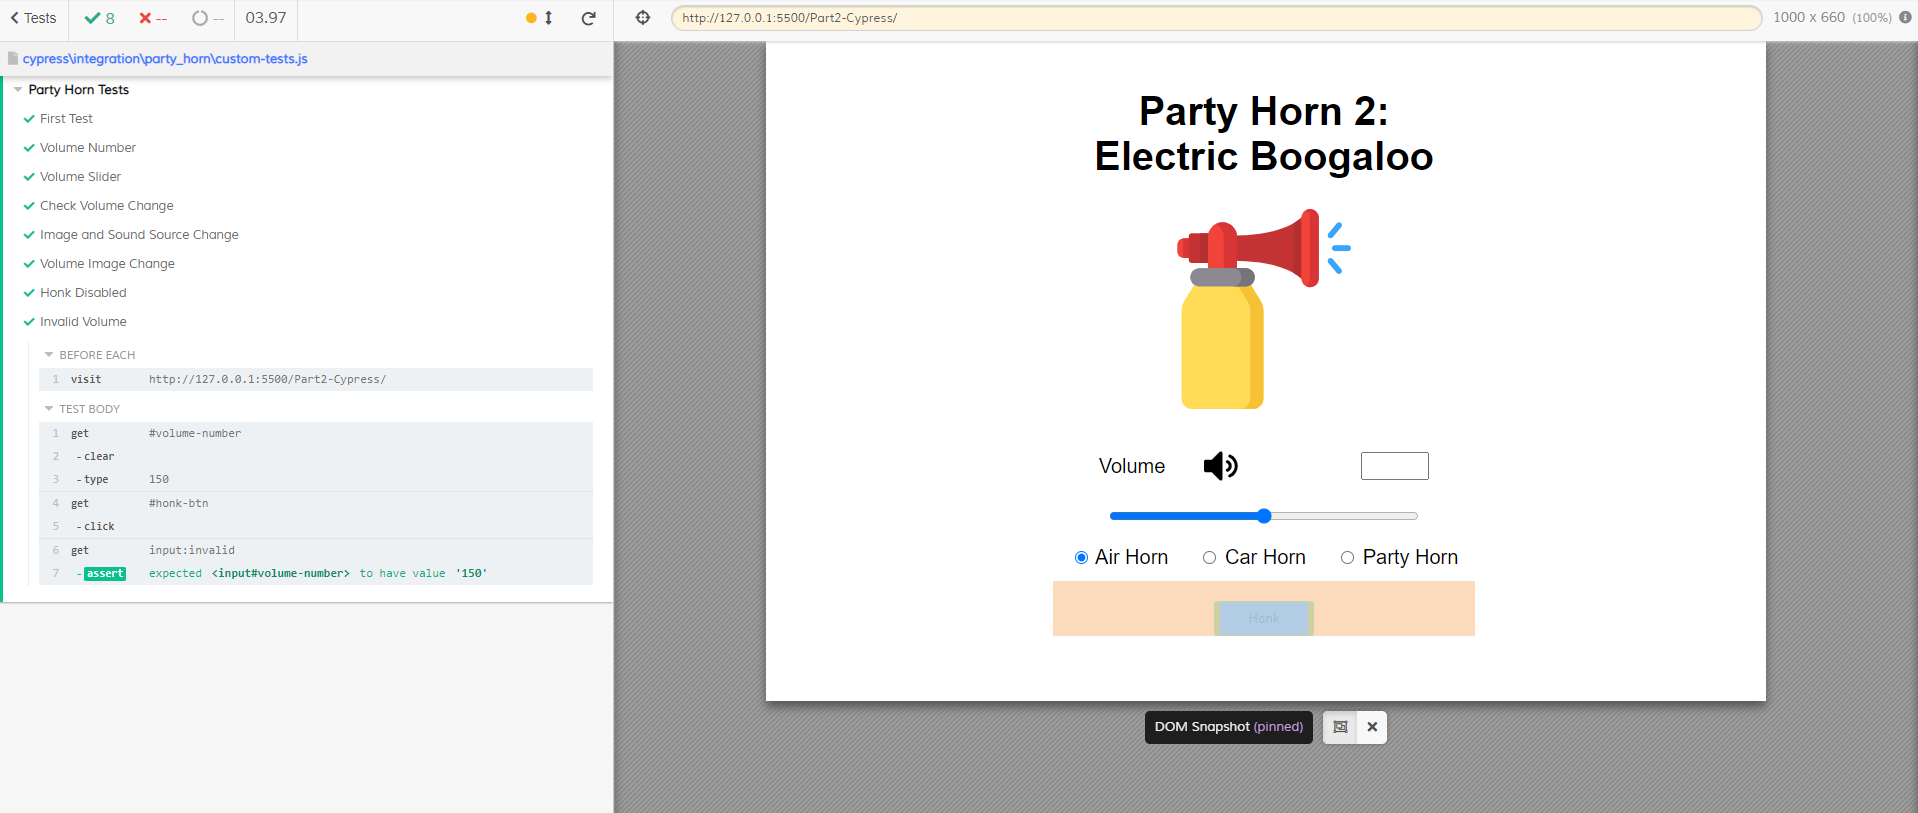
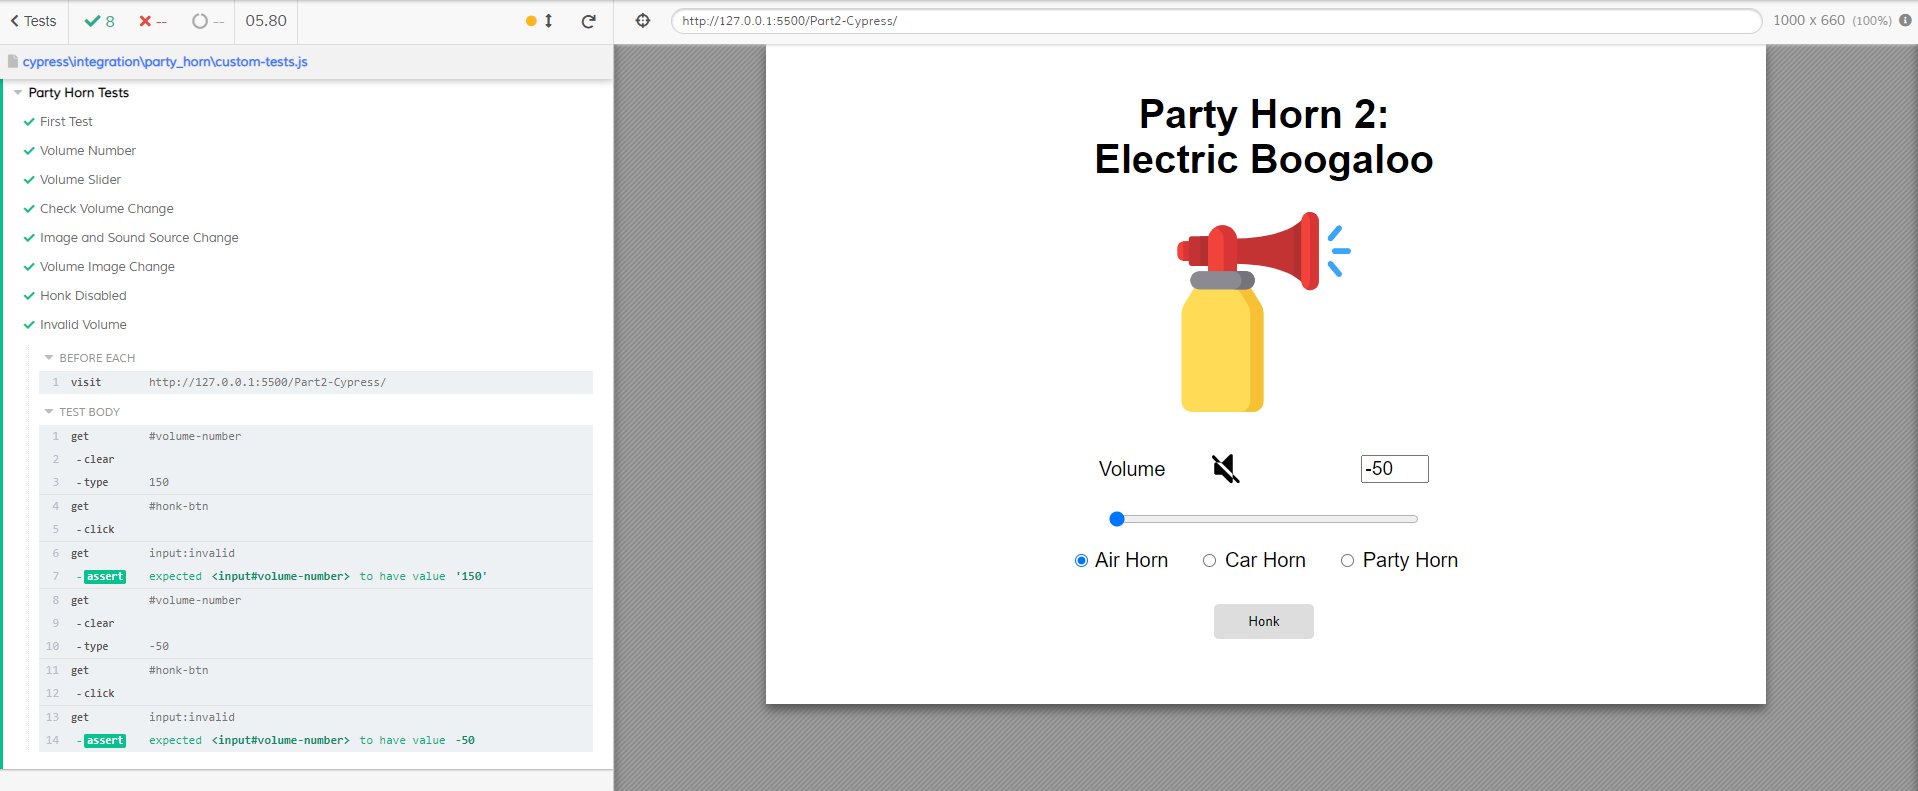
Part 2

diff --git a/Part2-Cypress/cypress/integration/party_horn/custom-tests.js b/Part2-Cypress/cypress/integration/party_horn/custom-tests.js
@@ -78,5 +78,11 @@ describe('Party Horn Tests', () => {
     cy.get('input:invalid').then(function($invalidInputs) {
       expect($invalidInputs).to.have.value('150')
     })
+
+    cy.get('#volume-number').clear().type('-50');
+    cy.get('#honk-btn').click();
+    cy.get('input:invalid').then(function($invalidInputs) {
+      expect($invalidInputs).to.have.value('-50')
+    })
   });
 });
